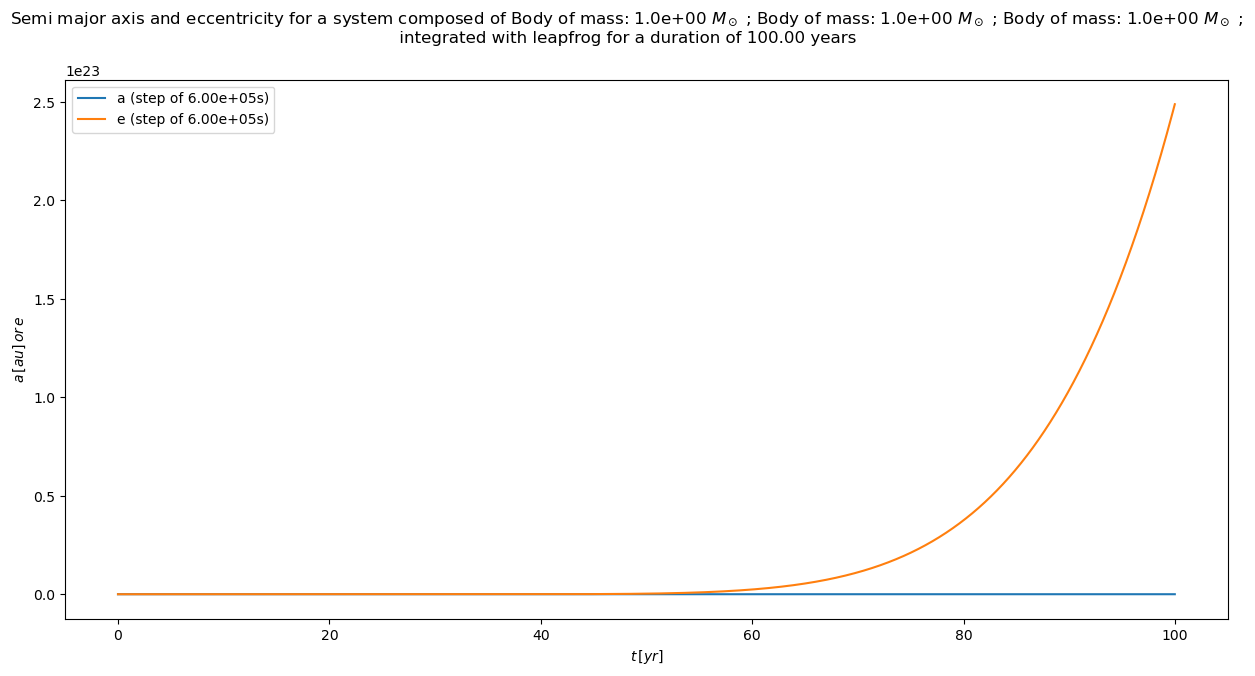
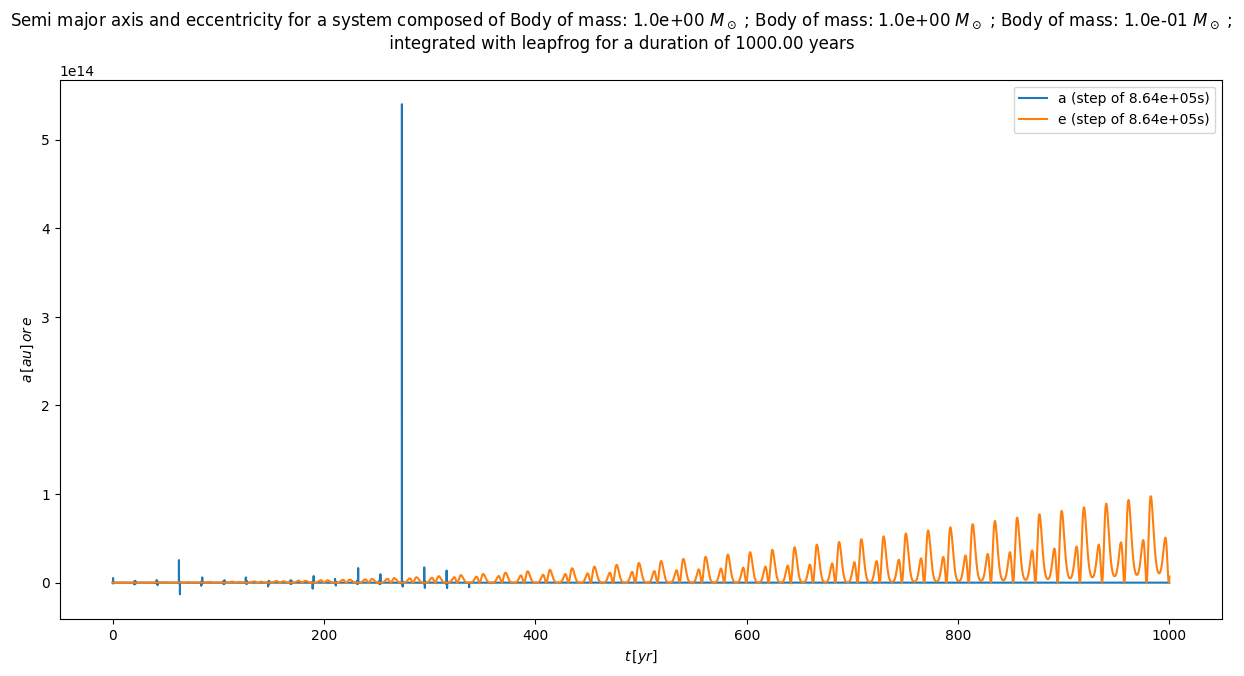
get back to full dimensions

diff --git a/main.py b/main.py
@@ -11,14 +11,10 @@ from lib.units import *
 
 def main():
     #initialisation
-    m = np.array([1., 1., 1e-1],dtype=np.longdouble)*Ms/Ms  # Masses in Solar mass
-    a = np.array([1., 1., 5.],dtype=np.longdouble)*au/au   # Semi-major axis in astronomical units
-    e = np.array([0., 0., 0.],dtype=np.longdouble)   # Eccentricity
-<<<<<<< HEAD
-    psi = np.array([0., 0., 80.],dtype=np.longdouble)*np.pi/180.    # Inclination of the orbital plane in degrees
-=======
-    psi = np.array([0., 0., 0.],dtype=np.longdouble)*np.pi/180.    # Inclination of the orbital plane in degrees
->>>>>>> 22fa187 (add Energy display)
+    m = np.array([1., 1., 1e-1],dtype=np.longdouble)*Ms#/Ms  # Masses in Solar mass
+    a = np.array([1., 1., 10.],dtype=np.longdouble)*au#/au   # Semi-major axis in astronomical units
+    e = np.array([0., 0., 0.25],dtype=np.longdouble)   # Eccentricity
+    psi = np.array([0., 0., 60.],dtype=np.longdouble)*np.pi/180.    # Inclination of the orbital plane in degrees
 
     x1 = np.array([0., -1., 0.],dtype=np.longdouble)*a[0]*(1.+e[0])
     x2 = np.array([0., 1., 0.],dtype=np.longdouble)*a[1]*(1.+e[1])
@@ -31,7 +27,7 @@ def main():
     v = np.array([v1, v2, v3],dtype=np.longdouble)
 
     #integration parameters
-    duration, step = 100*yr, np.array([600000.],dtype=np.longdouble) #integration time and step in seconds
+    duration, step = 1000*yr, np.array([10.*86400.],dtype=np.longdouble) #integration time and step in seconds
     step = np.sort(step)[::-1]
     integrator = "leapfrog"
     n_bodies = 3

diff --git a/lib/plots.py b/lib/plots.py
@@ -75,12 +75,12 @@ class DynamicUpdate():
 
     def on_running(self, dyn_syst, step=None, label=None):
         xdata, ydata, zdata = dyn_syst.get_positions()
-        values = np.sqrt(np.sum((np.array((xdata,ydata,zdata))**2).T,axis=1))
+        values = np.sqrt(np.sum((np.array((xdata,ydata,zdata))**2).T,axis=1))/au
         self.min_x, self.max_x = -np.max([np.abs(values).max(),self.max_x]), np.max([np.abs(values).max(),self.max_x])
         self.set_lims()
         #Update data (with the new _and_ the old points)
         for i,body in enumerate(dyn_syst.bodylist):
-            x, y, z = body.q
+            x, y, z = body.q/au
             self.lines[i].set_data_3d([x], [y], [z])
         if not label is None:
             if self.blackstyle:

diff --git a/lib/objects.py b/lib/objects.py
@@ -26,10 +26,10 @@ class Body:
         self.vp = np.zeros(3,dtype=np.longdouble)
 
     def __repr__(self): # Called upon "print(body)"
-        return r"Body of mass: {0:.1e} $M_\odot$, position: {1}, velocity: {2}".format(self.m, self.q, self.v)
+        return r"Body of mass: {0:.1e} $M_\odot$, position: {1}, velocity: {2}".format(self.m/Ms, self.q, self.v)
 
     def __str__(self): # Called upon "str(body)"
-        return r"Body of mass: {0:.1e} $M_\odot$".format(self.m)
+        return r"Body of mass: {0:.1e} $M_\odot$".format(self.m/Ms)
 
     @property
     def p(self):

diff --git a/lib/units.py b/lib/units.py
@@ -8,4 +8,4 @@ globals()['G'] = 6.67e-11 #Gravitational constant in SI units
 globals()['Ms'] = 2e30 #Solar mass in kg
 globals()['au'] = 1.5e11 #Astronomical unit in m
 globals()['yr'] = 3.15576e7 #year in seconds
-globals()['Ga'] = G*Ms/au**3 #Gravitational constant dimensionless
+globals()['Ga'] = G#*Ms/au**3 #Gravitational constant dimensionless
